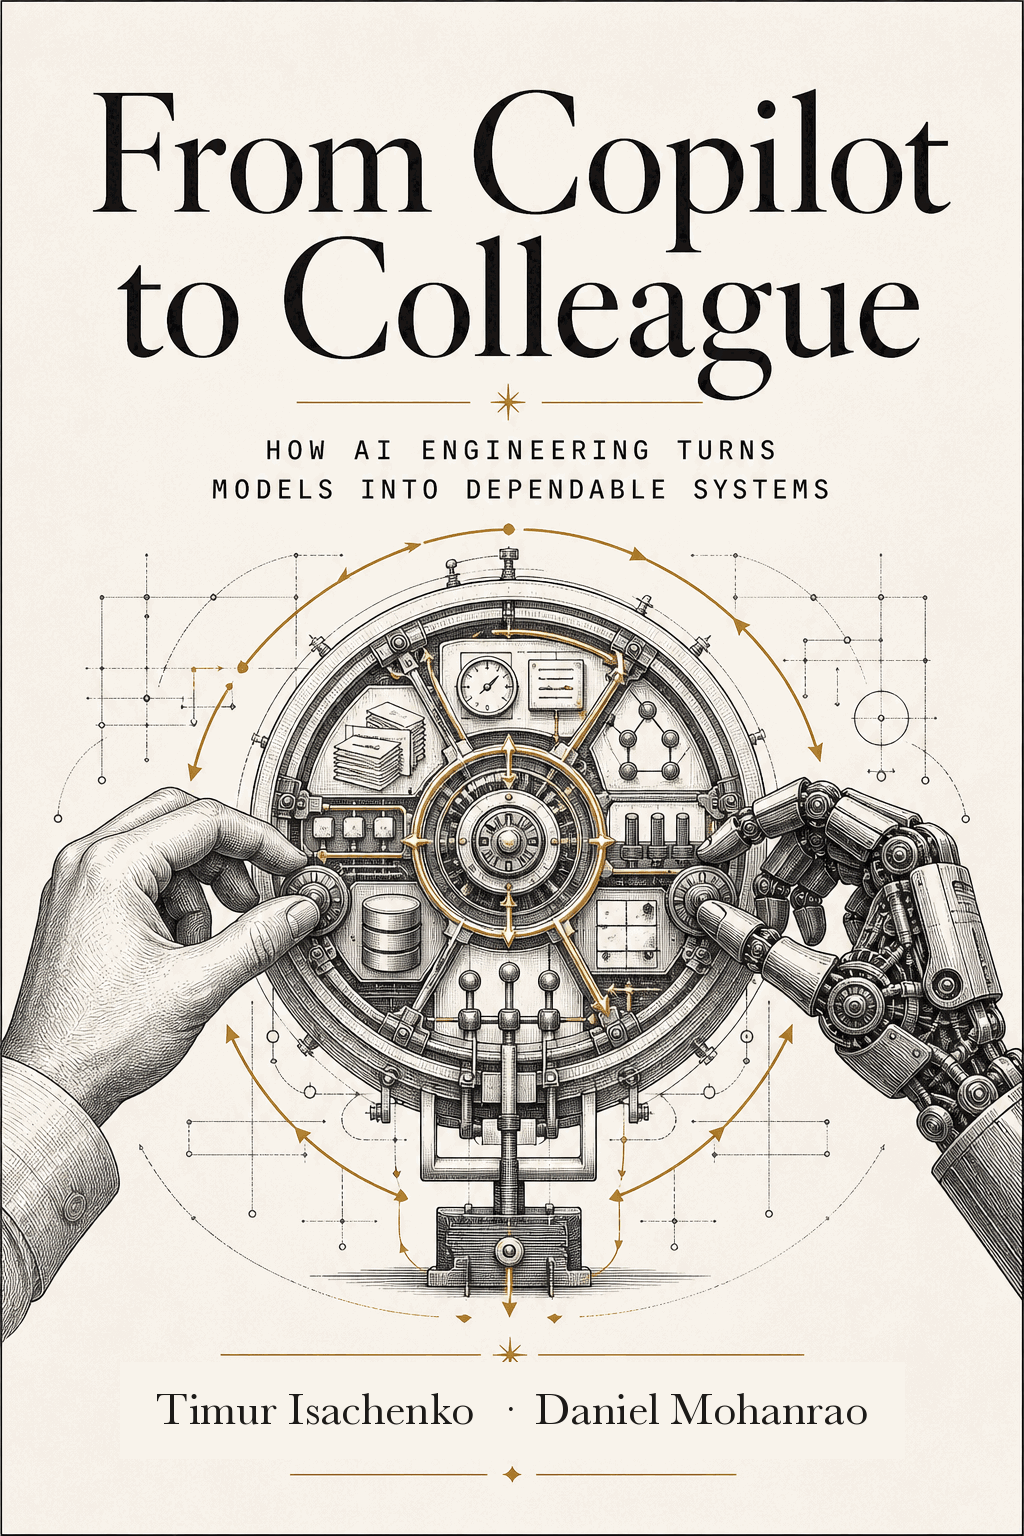
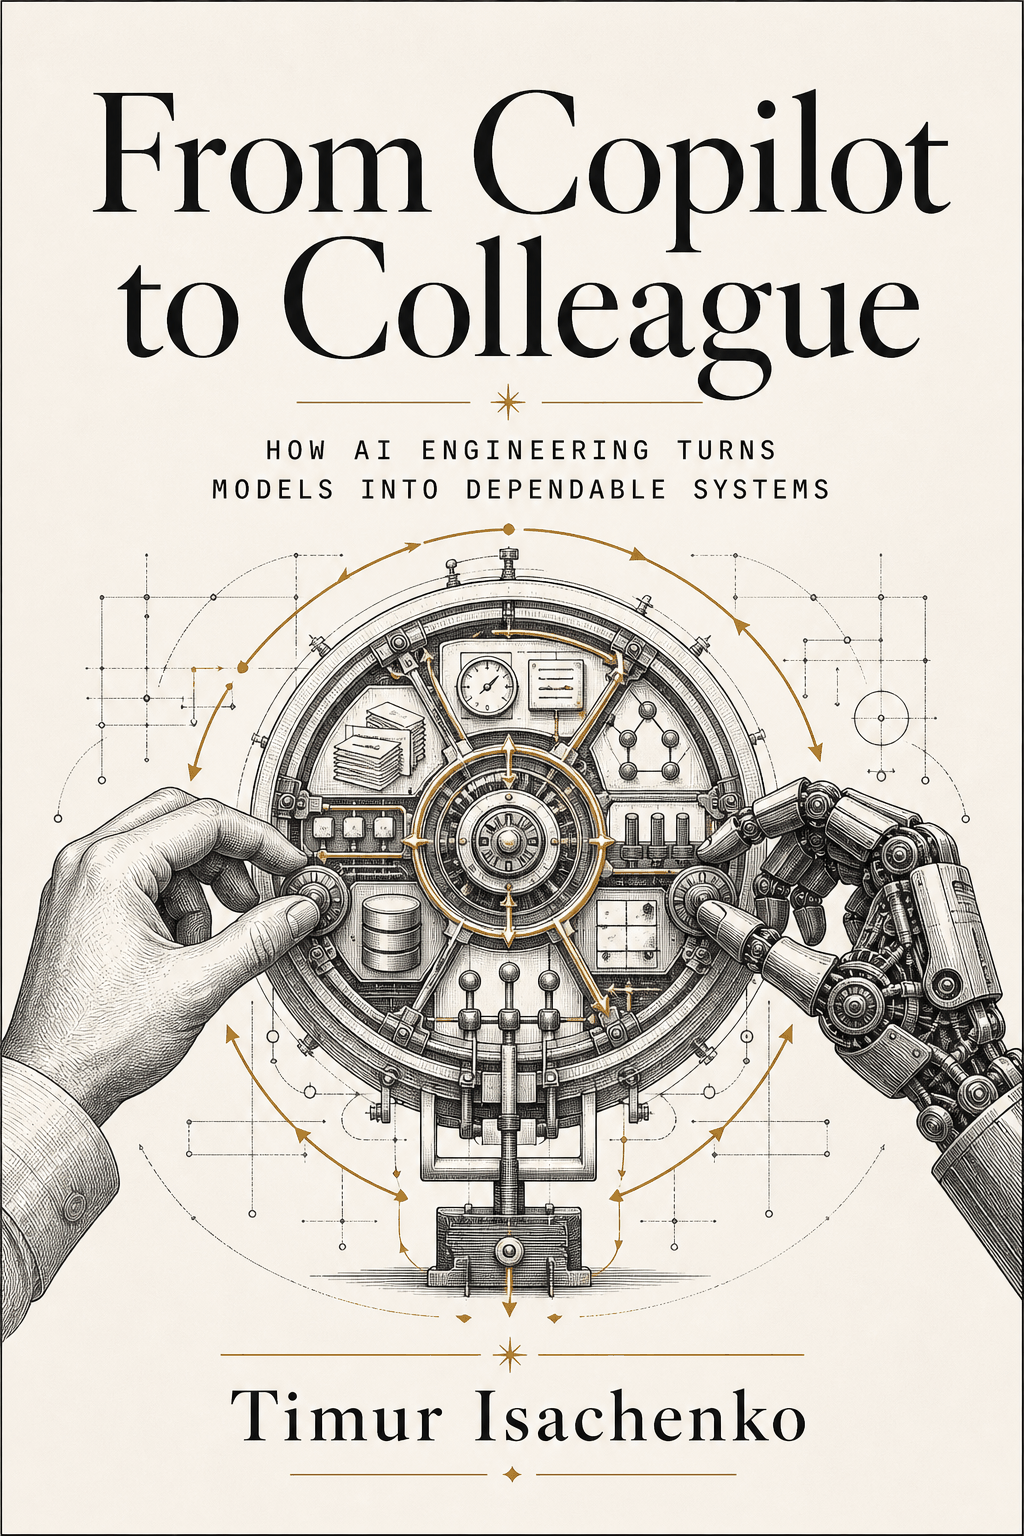
cover: one author on the book, and everywhere the cover's byline is repeated (#82)
The requested change is the cover. diagrams/covers/ already held a
single-author render; the site, the webp variants and the Remotion title
card were still serving the two-name one. Propagated that master and
regenerated both webp sizes at the quality the originals used.

A cover byline is not only on the cover. The same credit drives
BOOK.authors (schema.org Person entries, OG metadata, the spine line),
the AUTHOR constant that stamps every generated llms.txt and per-chapter
.md footer, and the Remotion title card. Leaving those would have shown a
one-author cover beside a two-author byline, so they move together.

structuredData.test.ts asserted two authors by literal. Changed it to
read BOOK.authors.length, so the count follows the data instead of
pinning it.

Not touched: git history, anything already published, and the build
artifacts under dist/ and .vercel/.

Changed region(s): [[0.1562, 0.9062, 0.8438, 0.9375]]

diff --git a/website/src/data/book.ts b/website/src/data/book.ts
@@ -20,7 +20,7 @@ export const BOOK: Book = {
   id: 'from-copilot-to-colleague',
   title: 'From Copilot to Colleague',
   subtitle: 'How AI Engineering Turns Models into Dependable Systems',
-  authors: ['Timur Isachenko', 'Daniel Mohanrao'],
+  authors: ['Timur Isachenko'],
   coverImage: '/covers/from-copilot-to-colleague.png',
   spineColor: '#1A1A1A',
   category: 'AI Engineering',

diff --git a/remotion/src/theme.ts b/remotion/src/theme.ts
@@ -17,7 +17,7 @@ export const theme = {
 
 export const BOOK_TITLE = 'From Copilot to Colleague';
 export const BOOK_URL = 'fromcopilottocolleague.com';
-export const AUTHORS = 'Timur Isachenko & Daniel Mohanrao';
+export const AUTHORS = 'Timur Isachenko';
 
 /** Frame rate for every composition in the series — keep it uniform across chapters. */
 export const FPS = 30;

diff --git a/website/src/lib/structuredData.test.ts b/website/src/lib/structuredData.test.ts
@@ -22,7 +22,7 @@ describe('bookJsonLd', () => {
   it('is a schema.org Book', () => {
     expect(book['@context']).toBe('https://schema.org');
     expect(book['@type']).toBe('Book');
-    expect(book.author).toHaveLength(2);
+    expect(book.author).toHaveLength(BOOK.authors.length);
     book.author.forEach((a) => expect(a['@type']).toBe('Person'));
   });
 

diff --git a/docs/launch-kit.md b/docs/launch-kit.md
@@ -7,7 +7,7 @@
 ## What we're launching
 
 **From Copilot to Colleague** — companion site at <https://fromcopilottocolleague.com>,
-authors Timur Isachenko & Daniel Mohanrao. Chapter 1 shipped publicly (2026-07-04) as a multi-channel
+author Timur Isachenko. Chapter 1 shipped publicly (2026-07-04) as a multi-channel
 launch: X thread + LinkedIn post + carousel PDF + audiobook chapter, with named
 individual contributors credited publicly (the public-credit model, 9 authors on Ch1).
 

diff --git a/website/public/read/09-ai-native-org.md b/website/public/read/09-ai-native-org.md
@@ -120,4 +120,4 @@ That question has a quieter twin: which parts of this answer outlast the churn o
 
 ---
 
-_From "From Copilot to Colleague: How AI Engineering Turns Models into Dependable Systems" by Timur Isachenko & Daniel Mohanrao · https://fromcopilottocolleague.com/read/09-ai-native-org_
+_From "From Copilot to Colleague: How AI Engineering Turns Models into Dependable Systems" by Timur Isachenko · https://fromcopilottocolleague.com/read/09-ai-native-org_

diff --git a/website/public/read/10-what-endures.md b/website/public/read/10-what-endures.md
@@ -129,4 +129,4 @@ The future belongs to teams that can turn cheap generation into trusted throughp
 
 ---
 
-_From "From Copilot to Colleague: How AI Engineering Turns Models into Dependable Systems" by Timur Isachenko & Daniel Mohanrao · https://fromcopilottocolleague.com/read/10-what-endures_
+_From "From Copilot to Colleague: How AI Engineering Turns Models into Dependable Systems" by Timur Isachenko · https://fromcopilottocolleague.com/read/10-what-endures_

diff --git a/website/public/read/01-the-shift.md b/website/public/read/01-the-shift.md
@@ -142,4 +142,4 @@ They want it to return with artifacts, not just ideas; with completed steps, not
 
 ---
 
-_From "From Copilot to Colleague: How AI Engineering Turns Models into Dependable Systems" by Timur Isachenko & Daniel Mohanrao · https://fromcopilottocolleague.com/read/01-the-shift_
+_From "From Copilot to Colleague: How AI Engineering Turns Models into Dependable Systems" by Timur Isachenko · https://fromcopilottocolleague.com/read/01-the-shift_

diff --git a/website/public/read/03-harnesses.md b/website/public/read/03-harnesses.md
@@ -128,4 +128,4 @@ Once the environment can produce delegated work at all, the next question is no 
 
 ---
 
-_From "From Copilot to Colleague: How AI Engineering Turns Models into Dependable Systems" by Timur Isachenko & Daniel Mohanrao · https://fromcopilottocolleague.com/read/03-harnesses_
+_From "From Copilot to Colleague: How AI Engineering Turns Models into Dependable Systems" by Timur Isachenko · https://fromcopilottocolleague.com/read/03-harnesses_

diff --git a/website/public/read/06-runtimes.md b/website/public/read/06-runtimes.md
@@ -153,4 +153,4 @@ And the better that operating environment gets, the less the future of AI engine
 
 ---
 
-_From "From Copilot to Colleague: How AI Engineering Turns Models into Dependable Systems" by Timur Isachenko & Daniel Mohanrao · https://fromcopilottocolleague.com/read/06-runtimes_
+_From "From Copilot to Colleague: How AI Engineering Turns Models into Dependable Systems" by Timur Isachenko · https://fromcopilottocolleague.com/read/06-runtimes_

diff --git a/website/public/read/07-security.md b/website/public/read/07-security.md
@@ -149,4 +149,4 @@ The next chapter asks whether bounded authority still holds when the room stops 
 
 ---
 
-_From "From Copilot to Colleague: How AI Engineering Turns Models into Dependable Systems" by Timur Isachenko & Daniel Mohanrao · https://fromcopilottocolleague.com/read/07-security_
+_From "From Copilot to Colleague: How AI Engineering Turns Models into Dependable Systems" by Timur Isachenko · https://fromcopilottocolleague.com/read/07-security_

diff --git a/website/public/read/05-context.md b/website/public/read/05-context.md
@@ -161,4 +161,4 @@ Once the binder is assembled, something has to keep the work alive across time: 
 
 ---
 
-_From "From Copilot to Colleague: How AI Engineering Turns Models into Dependable Systems" by Timur Isachenko & Daniel Mohanrao · https://fromcopilottocolleague.com/read/05-context_
+_From "From Copilot to Colleague: How AI Engineering Turns Models into Dependable Systems" by Timur Isachenko · https://fromcopilottocolleague.com/read/05-context_

diff --git a/website/public/read/04-evals.md b/website/public/read/04-evals.md
@@ -156,4 +156,4 @@ Once teams can structure work and measure outcomes, they hit a third bottleneck:
 
 ---
 
-_From "From Copilot to Colleague: How AI Engineering Turns Models into Dependable Systems" by Timur Isachenko & Daniel Mohanrao · https://fromcopilottocolleague.com/read/04-evals_
+_From "From Copilot to Colleague: How AI Engineering Turns Models into Dependable Systems" by Timur Isachenko · https://fromcopilottocolleague.com/read/04-evals_
